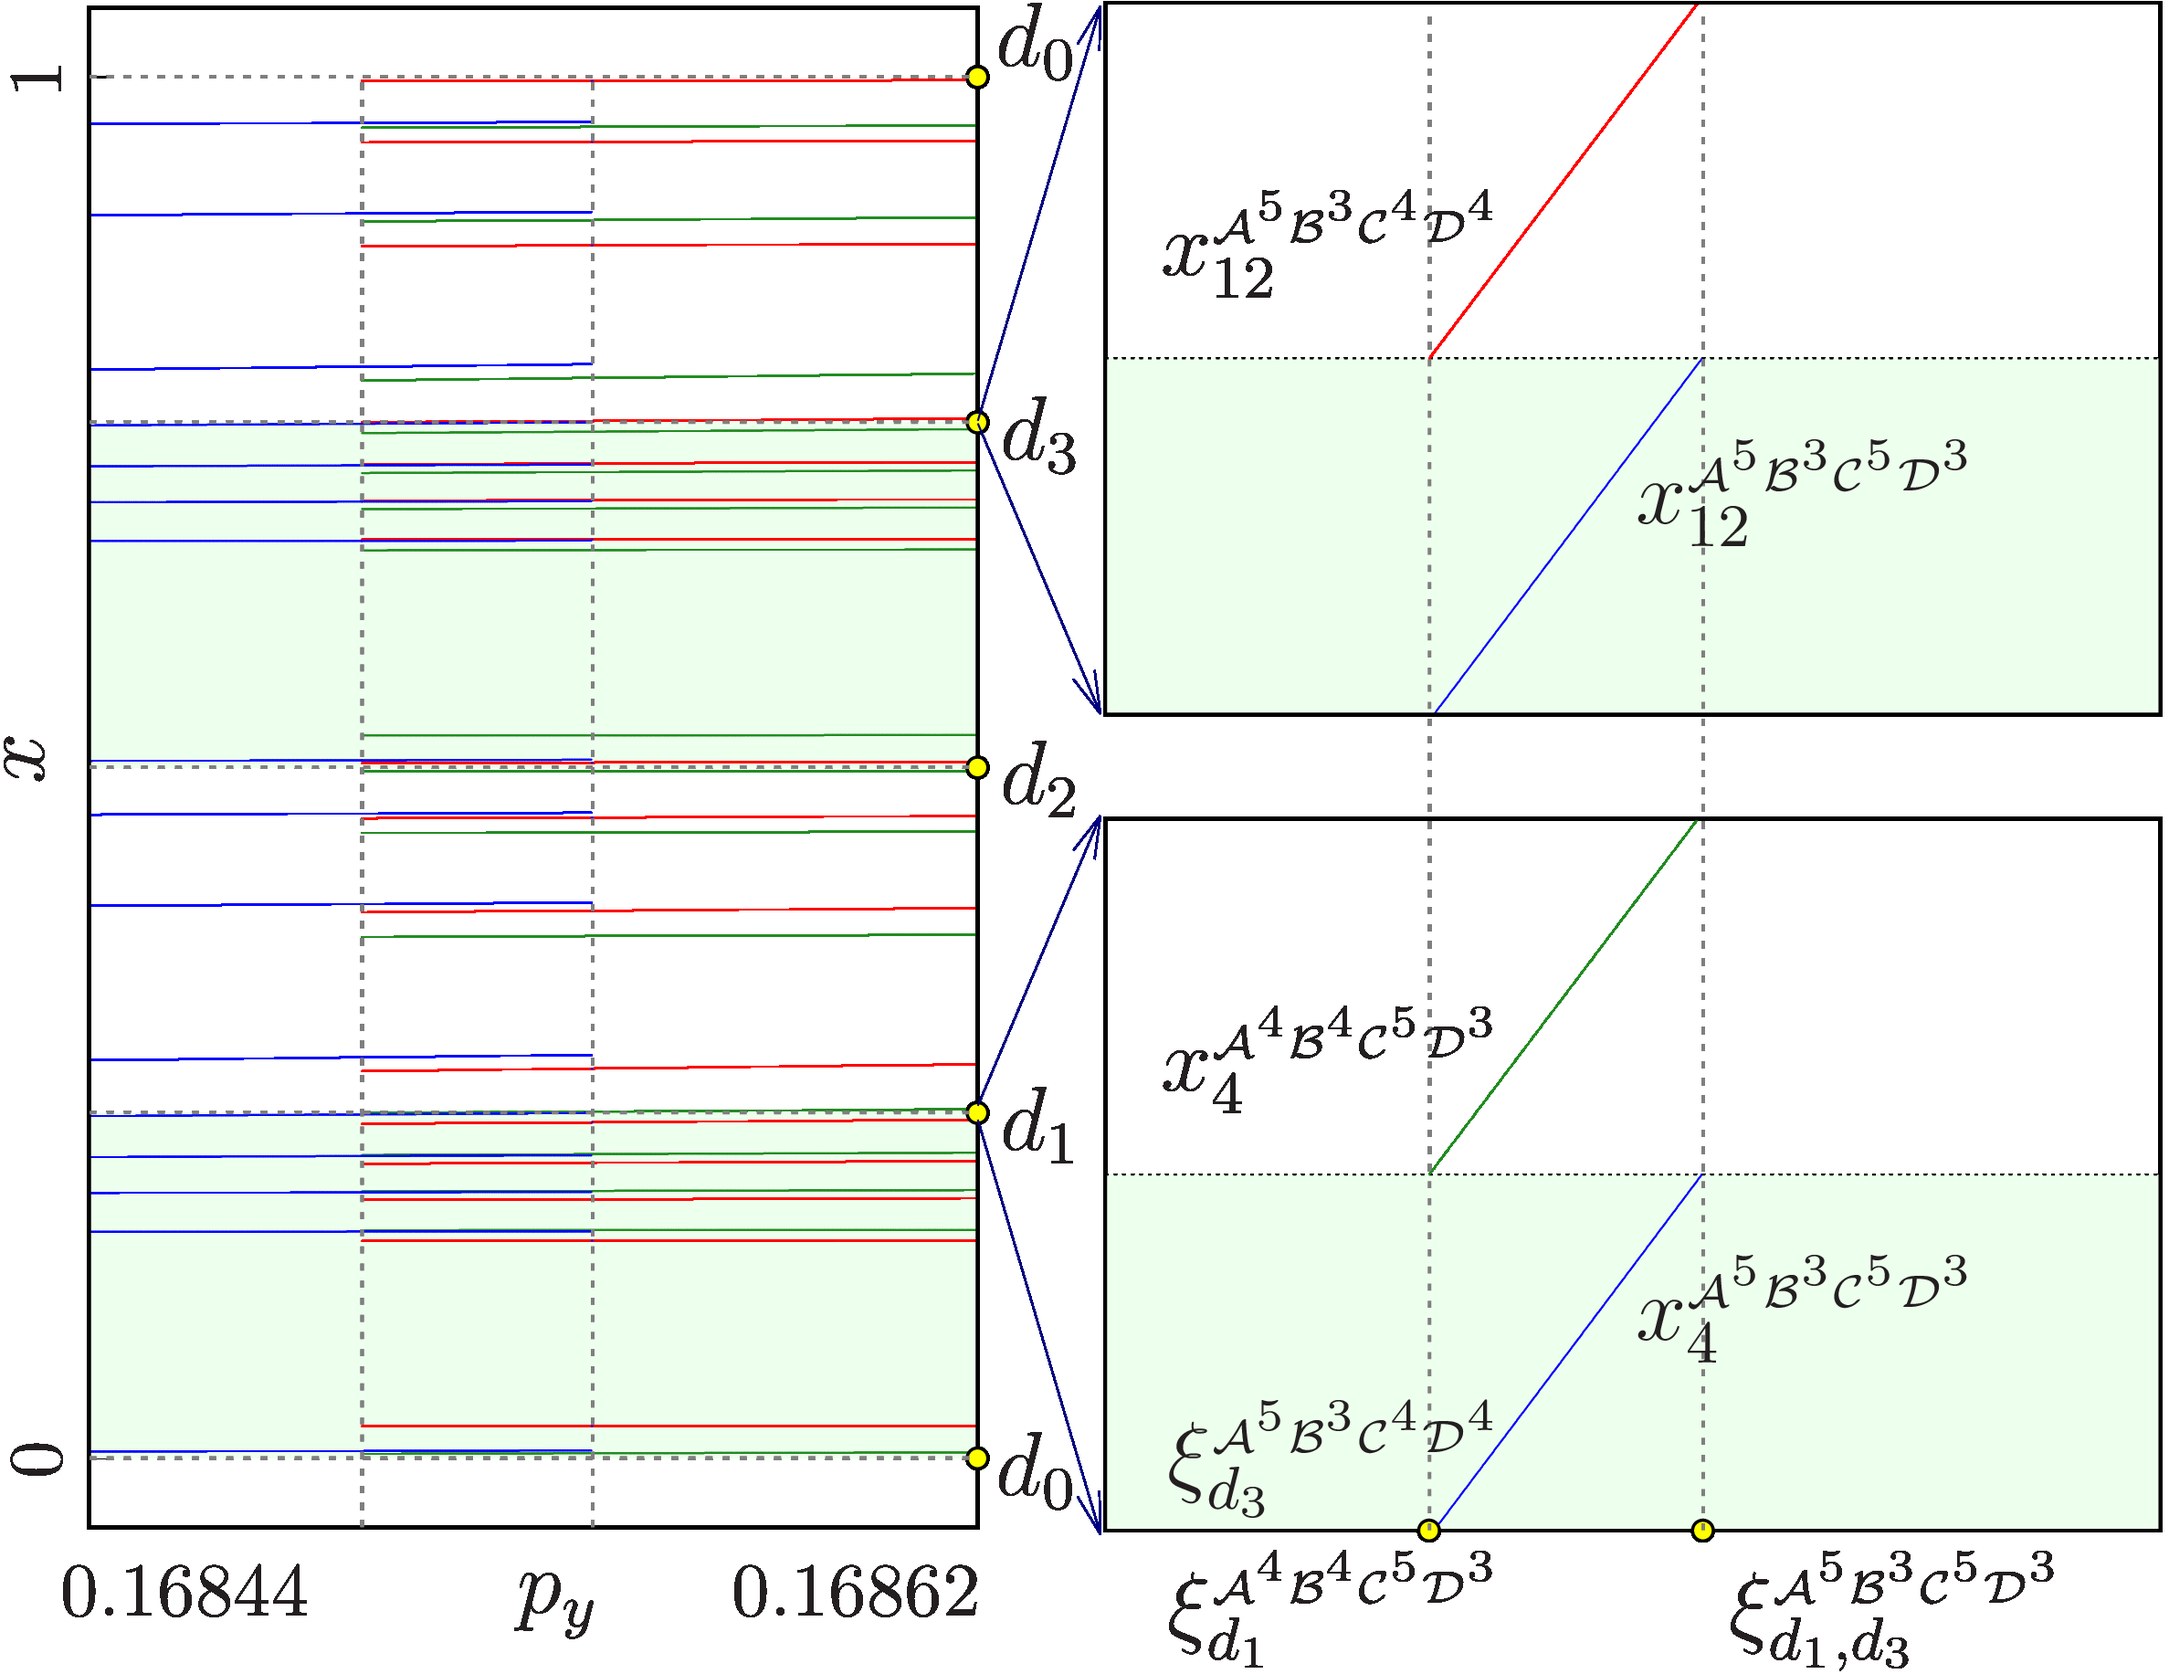
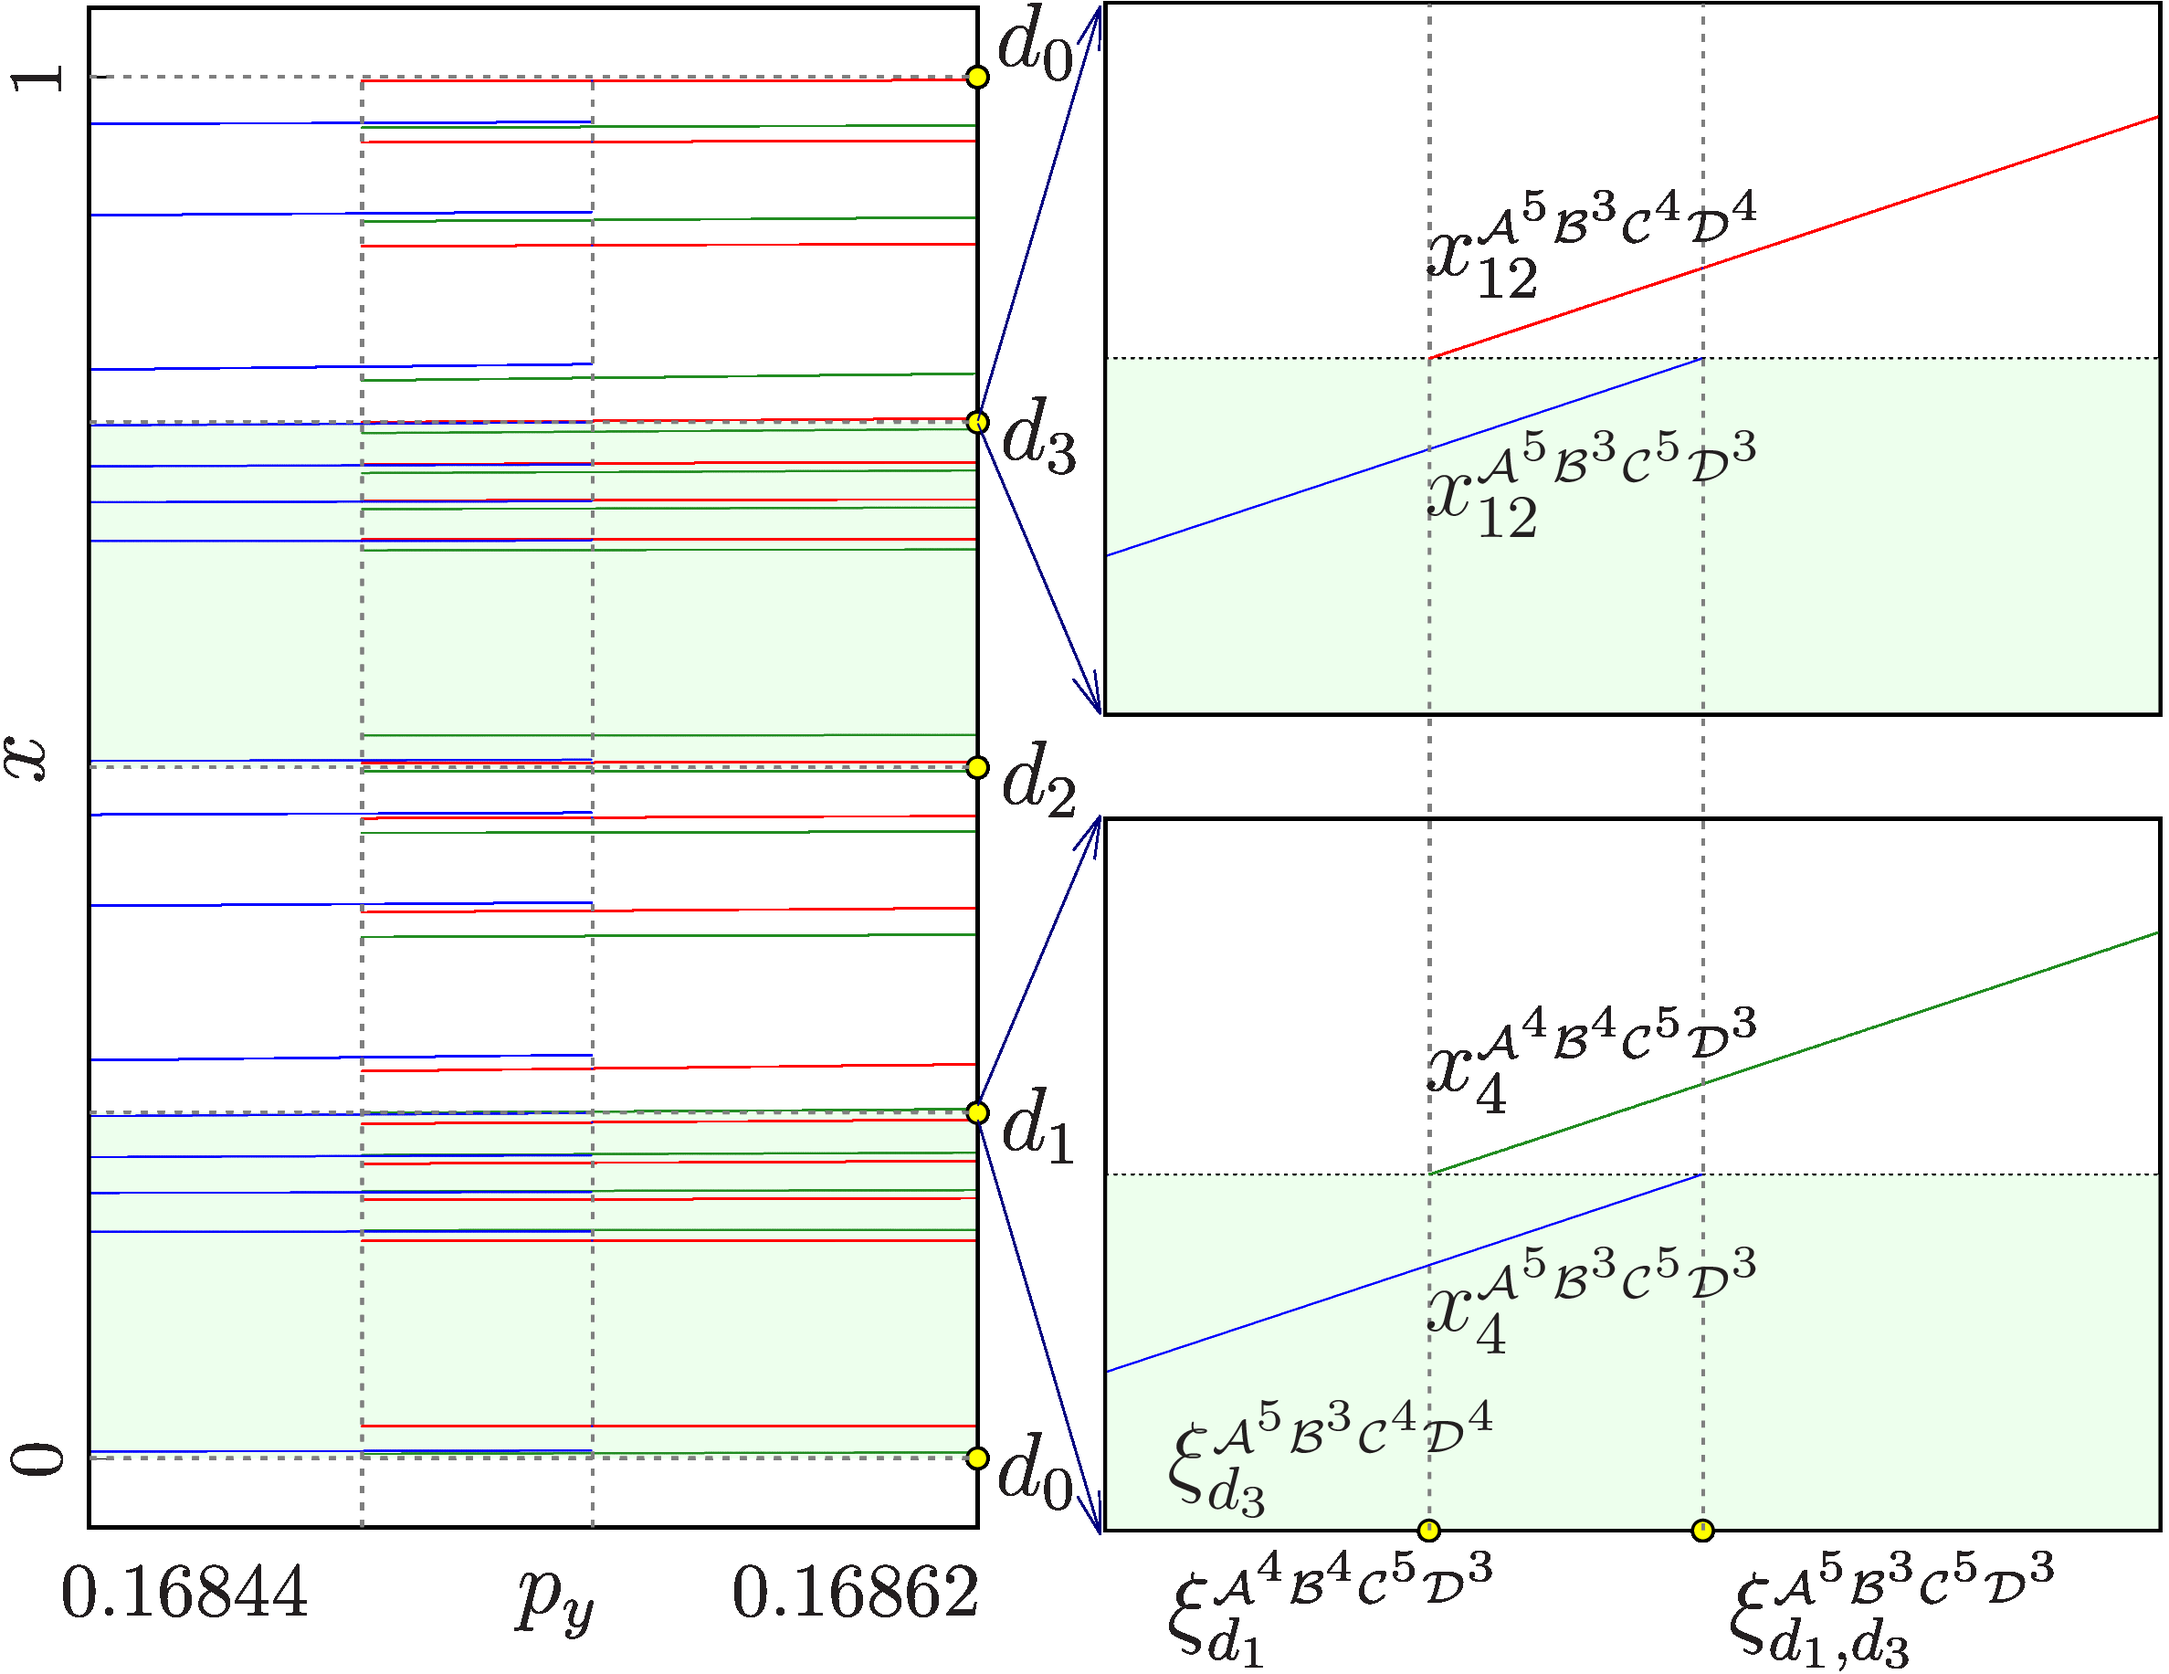
add slides for bifurcations and recap

diff --git a/StatusMeeting/Sections/20_minimal_rep.tex b/StatusMeeting/Sections/20_minimal_rep.tex
@@ -215,3 +215,44 @@
         \end{column}
     \end{columns}
 \end{frame}
+
+\begin{frame}{Bifurcations}
+    \begin{columns}
+        \begin{column}{.5 \textwidth}
+            At the boundaries of the ``type B'' period region with the cycles $\Cycle{\A^5\B^3\C^4\D^4}$ and $\Cycle{\A^4\B^4\C^5\D^3}$
+            %\begin{itemize}
+            %    \item Upper boundary: $\Cycle{\A^5\B^3\C^4\D^4}$ collides with border $d_1$, $\Cycle{\A^4\B^4\C^5\D^3}$ with $d_3$
+            %\end{itemize}
+            \vspace{1em}
+            \begin{itemize}
+                \item Always border collision bifurcations
+                \item ``Type B'' coexisting cycles collide with two different borders at the same time
+                \item ``Type A'' cycles collide with two borders at the same time
+            \end{itemize}
+            \vspace{1em}
+            The borders, the cycles collide with at the same time are at $x$ and $x + 0.5 \mod 1$ (due to the symmetry)
+        \end{column}
+        \begin{column}{.5 \textwidth}
+            \vspace{-2em}
+            \begin{figure}
+                \centering
+                \subfloat[$F_{16}^\uparrow$]{\includegraphics[height=.3 \textheight]{60_MinimalRepr/1D_Bif_LFU16/Manual/result.png}}
+                \quad
+                \subfloat[$F_{16}^\downarrow$]{\includegraphics[height=.3 \textheight]{60_MinimalRepr/1D_Bif_LFD16/Manual/result.png}}
+                \\
+                \subfloat[$F_{16}^\leftarrow$]{\includegraphics[height=.3 \textheight]{60_MinimalRepr/1D_Bif_LFL16/Manual/result.png}}
+                \quad
+                \subfloat[$F_{16}^\rightarrow$]{\includegraphics[height=.3 \textheight]{60_MinimalRepr/1D_Bif_LFR16/Manual/result.png}}
+            \end{figure}
+        \end{column}
+    \end{columns}
+\end{frame}
+
+\begin{frame}{Summary of Results}
+    \begin{itemize}
+        \item Constructed a function with similar properties as the original function
+        \item Reproduced the bifurcation behavior of the original model
+        \item Investigated coexisting cycles (found something new!)
+        \item Investigated bifurcations
+    \end{itemize}
+\end{frame}
